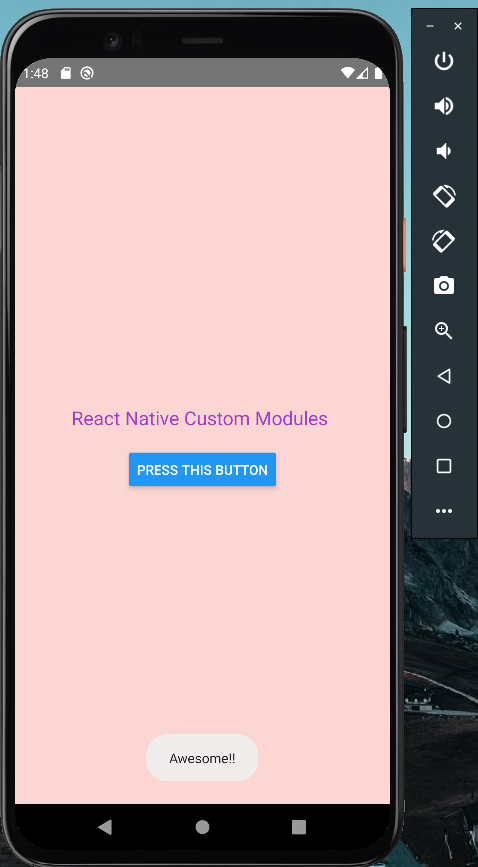
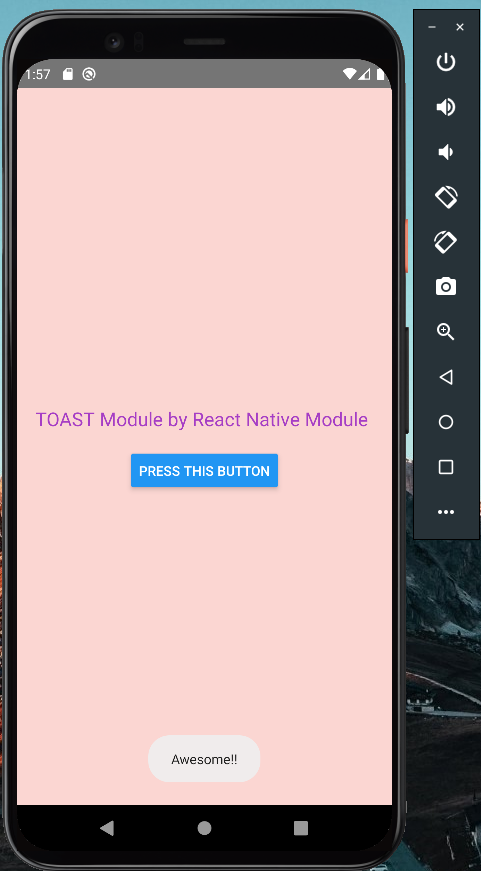
appdotjs updated

diff --git a/App.js b/App.js
@@ -9,7 +9,7 @@ class App extends Component {
       return (
           <View style={{ flex: 1, justifyContent: 'center', alignItems: 'center', backgroundColor: '#FBD6D2' }}>
             <Text style={{ fontSize: 20, color: '#A63EC5' }}>
-               React Native Custom Modules{"\n"} 
+               TOAST Module by React Native Module{"\n"} 
               </Text>
             <Button onPress={() => {
             ToastExample.show('Awesome!!', ToastExample.SHORT,);
